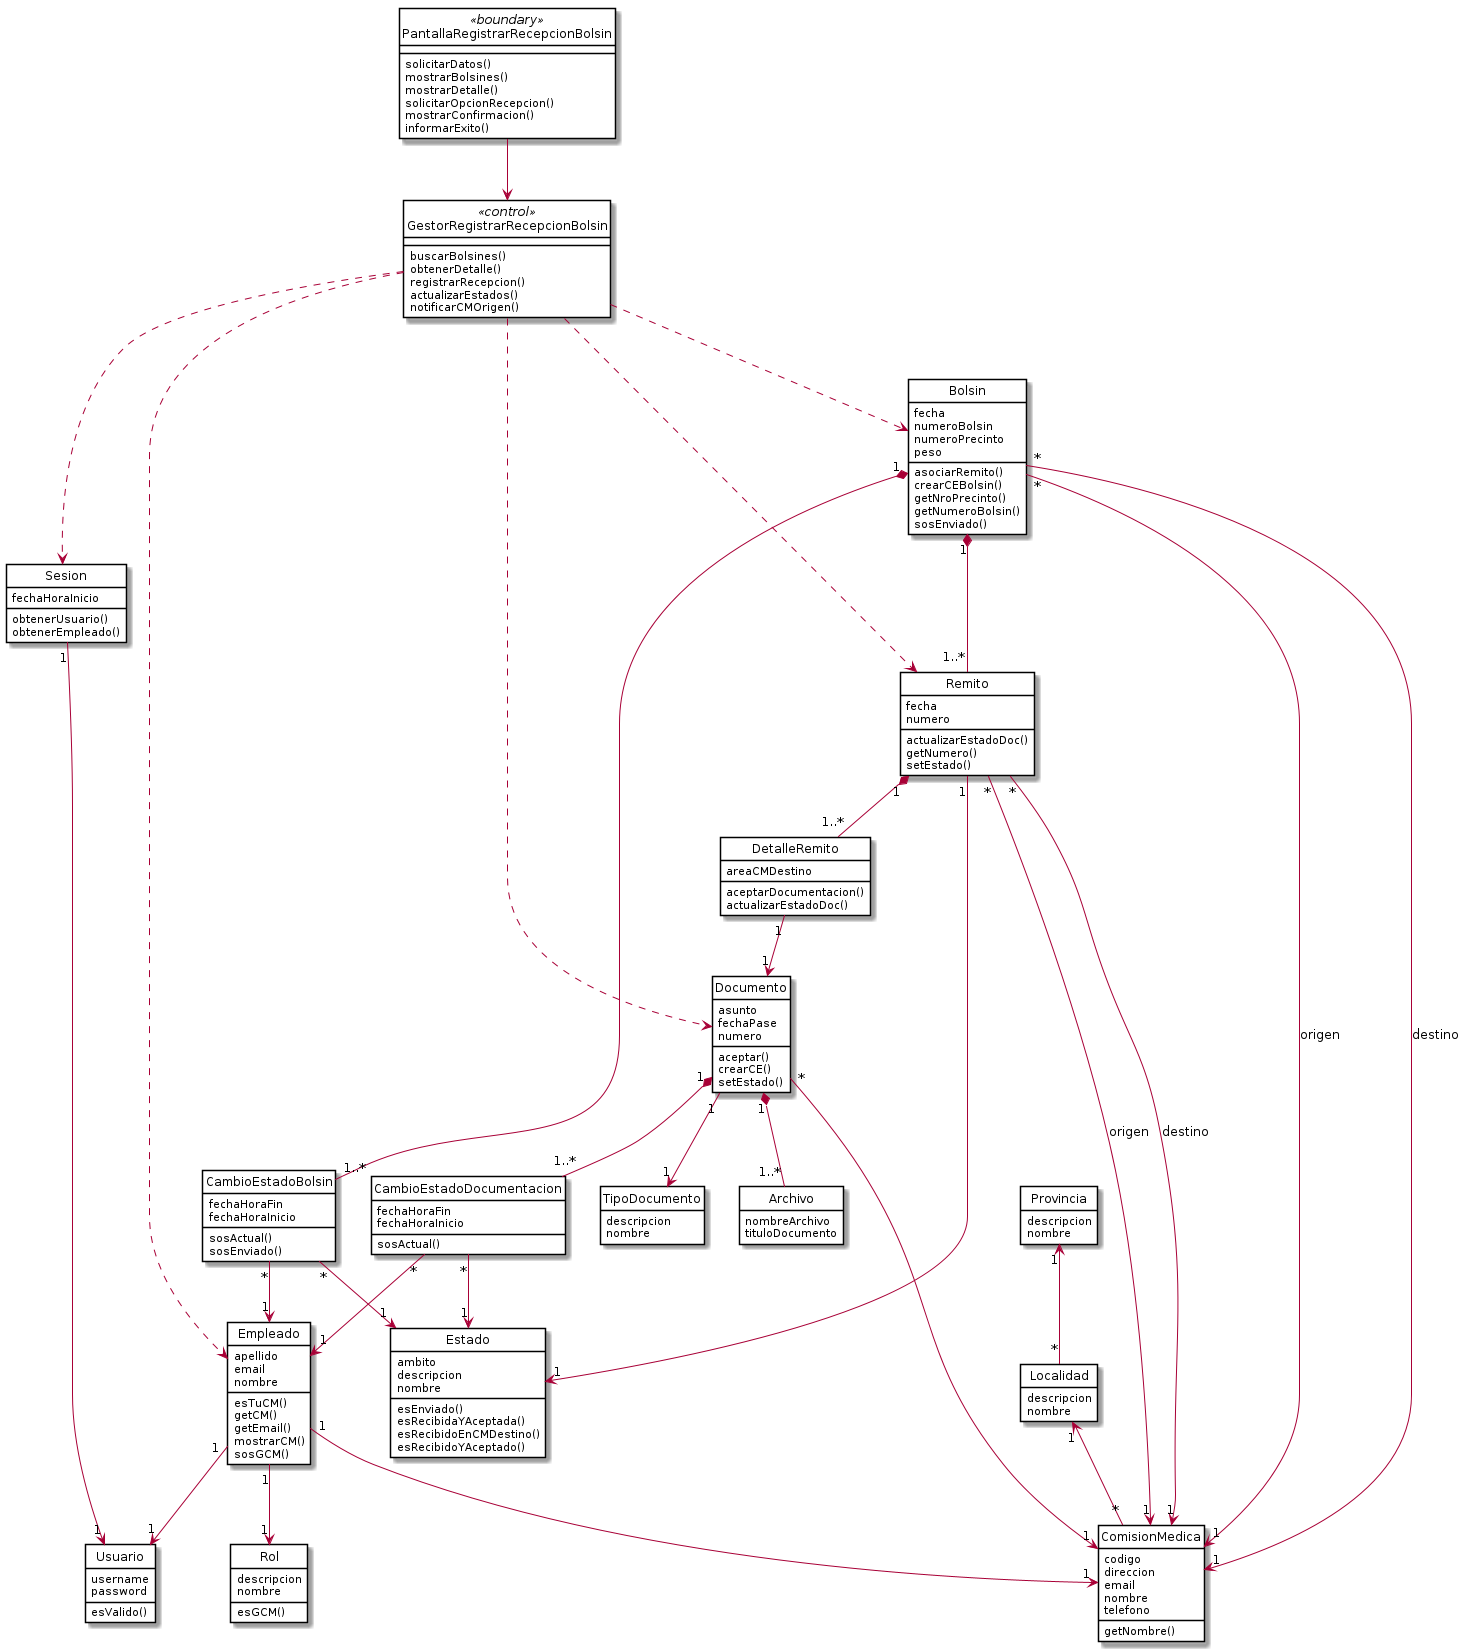
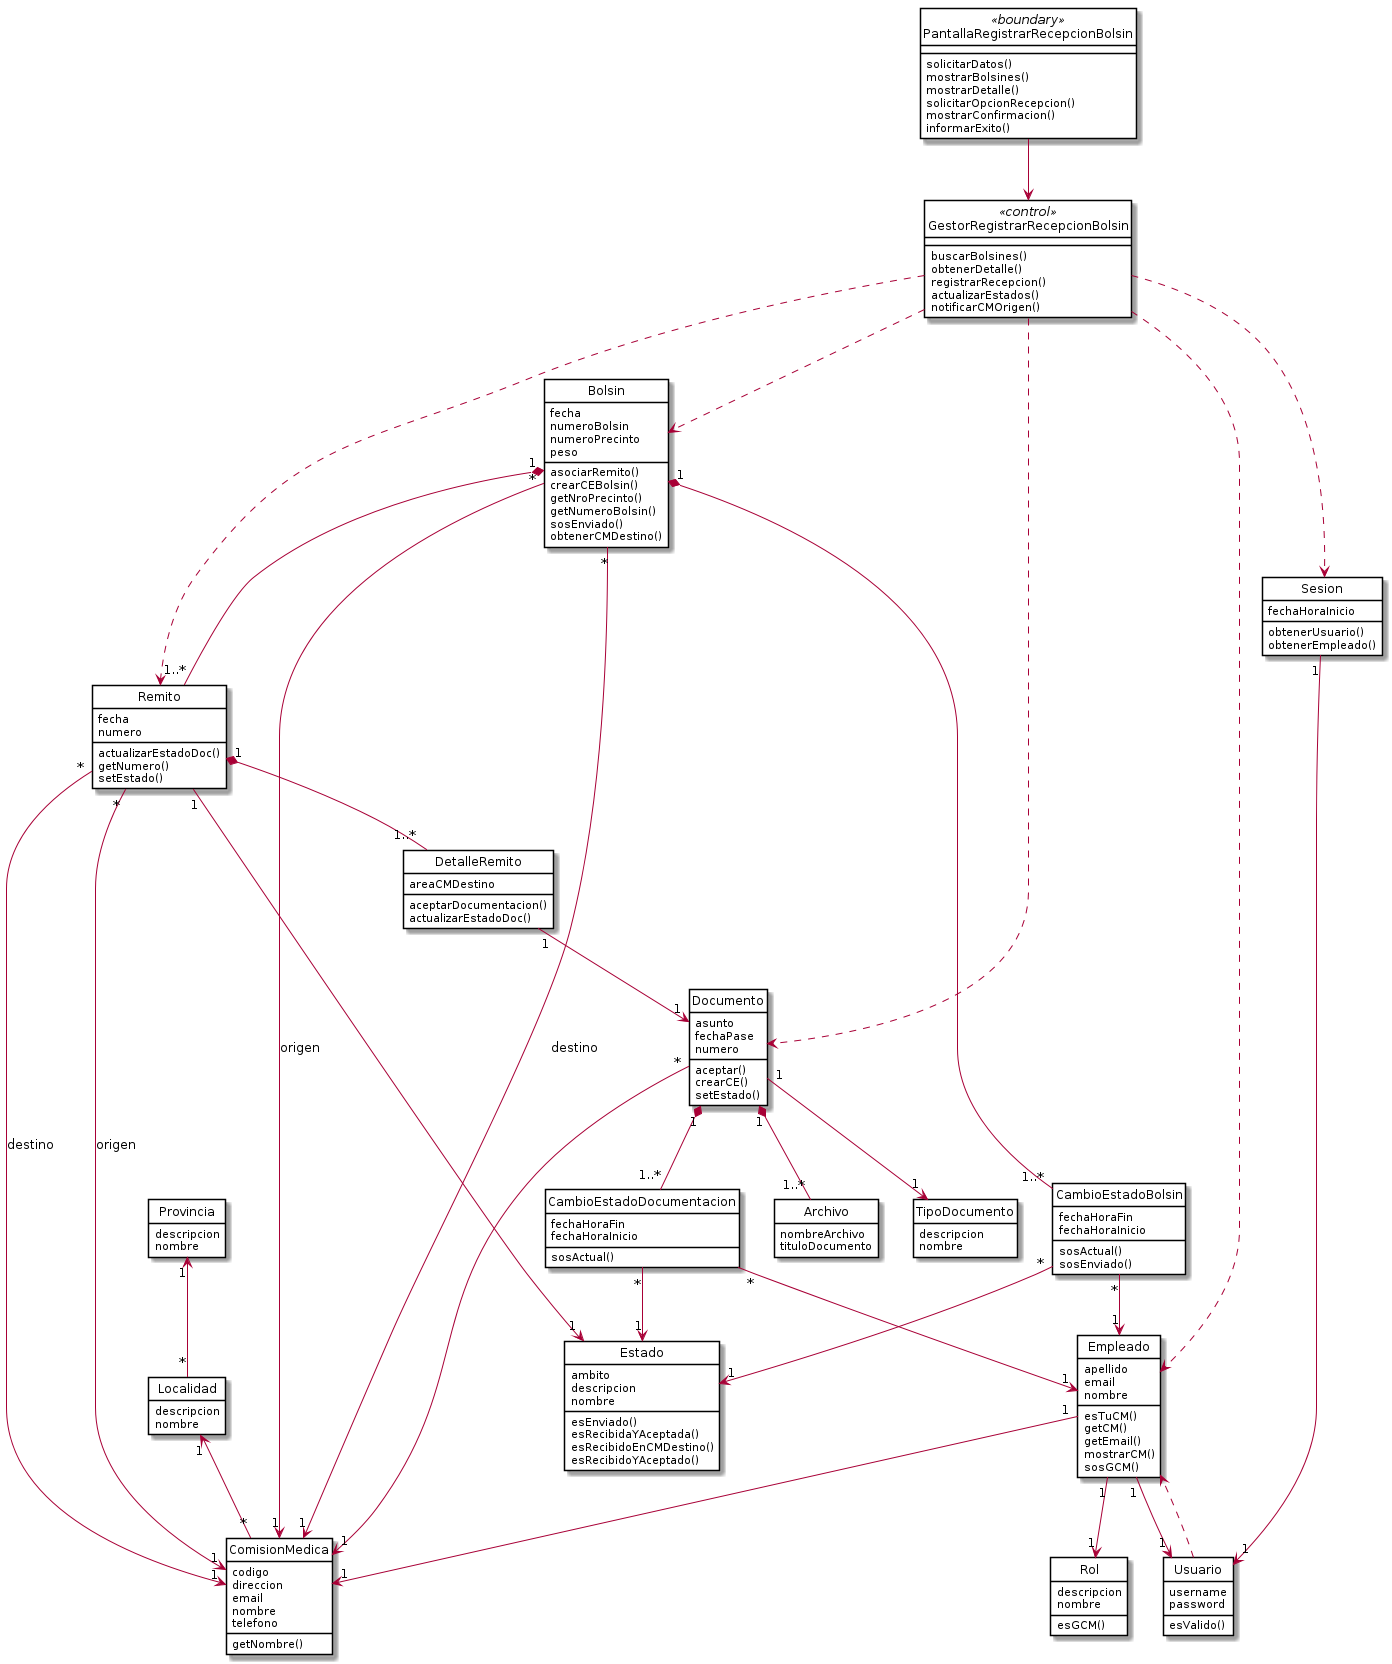
Se actualiza script para generar imagenes y se agrega diagrama de maquina de estados a readme

diff --git a/README.md b/README.md
@@ -5,3 +5,5 @@
 
 
 ![Diagrama2](ClasesDeAnalisis_Estatica.png)
+
+![Diagrama2](maquinaDeEstados_Documentacion.png)
